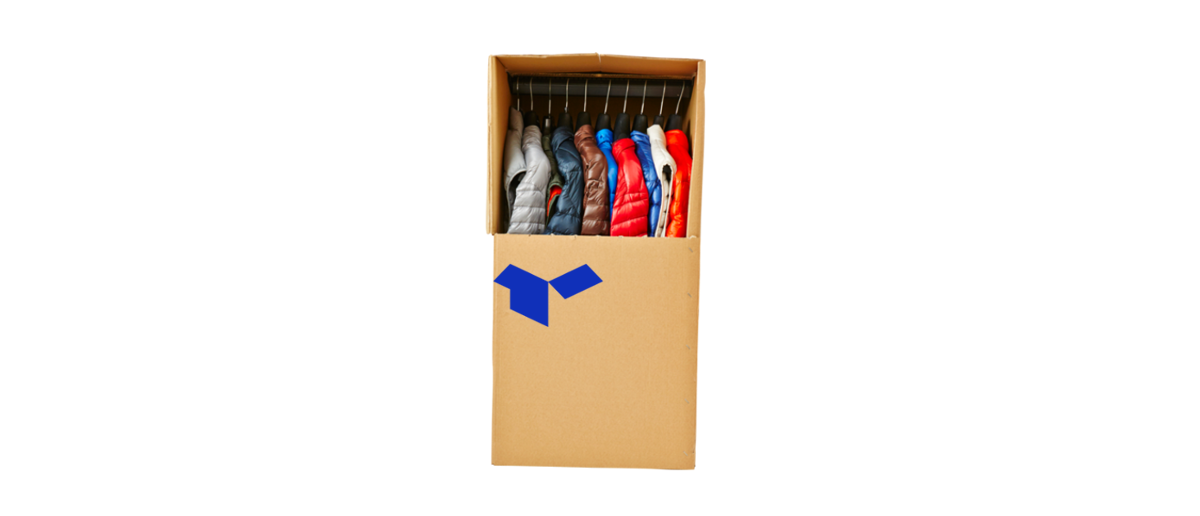
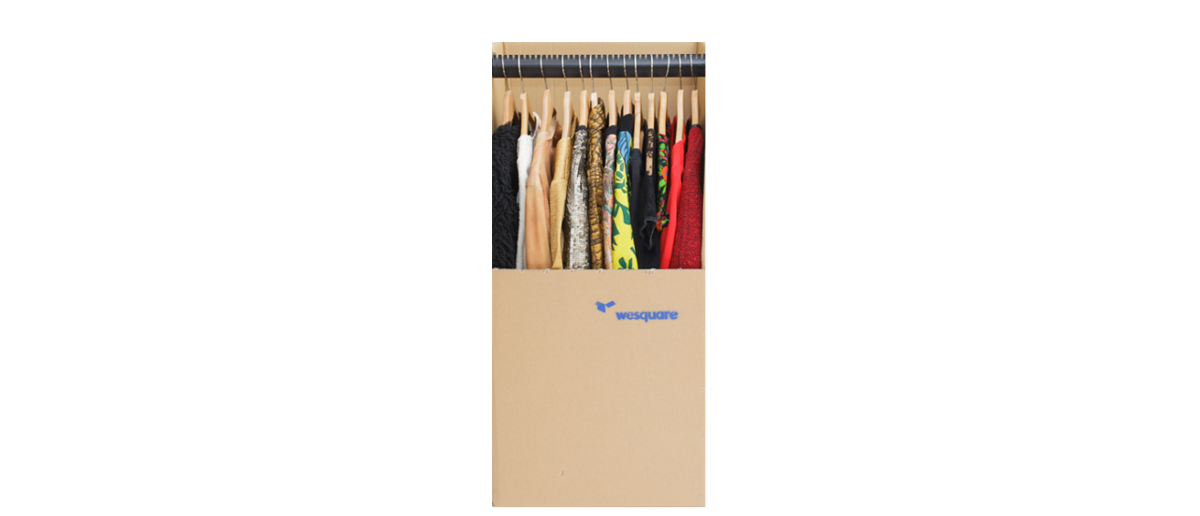
Modif collecte vs. ramassage + photo vic

Changed region(s): [[0.4008, 0.062, 0.5858, 0.9922]]

diff --git a/FAQ.html b/FAQ.html
@@ -71,7 +71,7 @@ style: faq
 								<ol>
 									<li> Vous commandez des Box de rangement (BlueBox, PenderiBox, ArchivBox) par téléphone et nous fixons ensemble un rendez-vous pour les livrer. </li>
 									<li> Nous livrons gratuitement les Box de rangement que vous remplissez.</li>
-									<li> Nous revenons gratuitement dans un délai de 2 semaines ramasser vos Box remplies ainsi que vos éventuels Objets Volumineux </li>
+									<li> Nous revenons gratuitement dans un délai de 2 semaines collecter vos Box remplies ainsi que vos éventuels Objets Volumineux </li>
 									<li> Nous stockons vos Box, scellées et numérotées ainsi que vos éventuels Objet Volumineux Fdans nos entrepôts sécurisés.</li>
 								</ol>
 								Visualisez l'inventaire de vos affaires sur votre <a href="{{ site.baseurl }}/mon_espace.html" target="BLANK">espace utilisateur </a>. Planifiez en ligne ou par téléphone un retour de vos Box dans un délai de 24h.
@@ -89,7 +89,7 @@ style: faq
 						<div id="collapseFour" class="panel-collapse collapse" role="tabpanel" aria-labelledby="headingFour">
 							<div class="panel-body">
 								À la livraison des Box  vides, une feuille d'inventaire vous est remise par notre chauffeur wesquare<sup>&reg;</sup>, afin de faire la liste détaillée de toutes vos affaires. 
-								<br>Au moment du Ramassage de vos Box  remplies, nous prenons une photo (prise de vue de dessus),  récupérons votre feuille d'inventaire et scellons vos Box devant vous. Une fois vos Box stockées, nous mettons en ligne sur votre <a href="{{ site.baseurl }}/mon_espace.html" target="BLANK"> espace utilisateur</a>, votre inventaire ainsi que les photos prises.
+								<br>Au moment du Collecter de vos Box  remplies, nous prenons une photo (prise de vue de dessus),  récupérons votre feuille d'inventaire et scellons vos Box devant vous. Une fois vos Box stockées, nous mettons en ligne sur votre <a href="{{ site.baseurl }}/mon_espace.html" target="BLANK"> espace utilisateur</a>, votre inventaire ainsi que les photos prises.
 								<br>Vous pouvez ensuite gérer vos Box de manière autonome (modifier l'inventaire, demander un retour, etc.)
 							</div>
 						</div>
@@ -136,7 +136,7 @@ style: faq
 					<div id="collapseSeven" class="panel-collapse collapse" role="tabpanel" aria-labelledby="headingSeven">
 						<div class="panel-body">
 							Des questions? Des renseignements? Notre team y répondra avec le plus grand plaisir du lundi au samedi, de 9h00 à 19h00.
-							<br><br>Livraison ? Ramassage ? Retour ? Les chauffeurs de la team wesquare<sup>&reg;</sup> se mettent à votre disposition et s’adaptent à votre agenda, du lundi au samedi, de 7h00 à 23h00.	
+							<br><br>Livraison ? Collecte ? Retour ? Les chauffeurs de la team wesquare<sup>&reg;</sup> se mettent à votre disposition et s’adaptent à votre agenda, du lundi au samedi, de 7h00 à 23h00.	
 						</div>
 					</div>
 				</div>
@@ -303,7 +303,7 @@ style: faq
 <div class="row">
 
 	<div class="col-md-offset-2 col-md-8">
-		<h1>Livraison, Ramassage & Retour</h1>
+		<h1>Livraison, Collecte & Retour</h1>
 
 		<div class="panel-group" id="accordion3" role="tablist" aria-multiselectable="true">
 
@@ -311,7 +311,7 @@ style: faq
 				<div class="panel-heading" role="tab" id="headingSixteen">
 					<h4 class="panel-title text-left">
 						<a class="collapsed" data-toggle="collapse" data-parent="#accordion3" href="#collapseSixteen" aria-expanded="false" aria-controls="collapseSixteen">
-							Comment planifier une Livraison, un Ramassage ou un Retour?
+							Comment planifier une Livraison, une Collecte ou un Retour?
 						</a>
 					</h4>
 				</div>
@@ -320,7 +320,7 @@ style: faq
 						Fixer un rendez-vous n’a jamais été aussi simple qu'avec wesquare<sup>&reg;</sup>.
 						<ol>
 							<li>Pour planifier une livraison de Box vides, faites une simulation de prix grâce à nos curseurs intuitifs et appelez nous au 01 82 09 71 79 pour fixer un rendez-vous à la date et au créneau horaire qui vous conviennent le mieux.</li>
-							<li> Une fois les Box livrées, remplissez-les et planifiez le ramassage de vos affaires (dans un délai maximum de 2 semaines après la livraison de vos Box vides) en vous connectant sur votre <a href="{{ site.baseurl }}/mon_espace.html" target="BLANK">espace utilisateur</a> ou en nous appelant au 01 82 09 71 79 afin de fixer un nouveau rendez-vous, à la date et aux horaires qui vous conviennent le mieux.</li>
+							<li> Une fois les Box livrées, remplissez-les et planifiez la collecte de vos affaires (dans un délai maximum de 2 semaines après la livraison de vos Box vides) en vous connectant sur votre <a href="{{ site.baseurl }}/mon_espace.html" target="BLANK">espace utilisateur</a> ou en nous appelant au 01 82 09 71 79 afin de fixer un nouveau rendez-vous, à la date et aux horaires qui vous conviennent le mieux.</li>
 							<li>Lorsque vous désirez un retour : connectez-vous simplement sur votre <a href="{{ site.baseurl }}/mon_espace.html" target="BLANK">espace utilisateur</a> ou appelez-nous, choisissez les affaires que vous souhaitez récupérer et sélectionnez la date et le créneau horaire qui vous conviennent.</li>
 						</ol>
 					</div>
@@ -331,7 +331,7 @@ style: faq
 				<div class="panel-heading" role="tab" id="headingSeventeen">
 					<h4 class="panel-title text-left">
 						<a class="collapsed" data-toggle="collapse" data-parent="#accordion3" href="#collapseSeventeen" aria-expanded="false" aria-controls="collapseSeventeen">
-							Quels sont les horaires de  Livraison, Ramassage & Retour?
+							Quels sont les horaires de  Livraison, Collecte & Retour?
 						</a>
 					</h4>
 				</div>
@@ -351,7 +351,7 @@ style: faq
 				</div>
 				<div id="collapseEighteen" class="panel-collapse collapse" role="tabpanel" aria-labelledby="headingEighteen">
 					<div class="panel-body">
-						Toute commande (Livraison, Ramassage ou Retour) vous sera livrée 24h après la prise de commande.  
+						Toute commande (Livraison, Collecte ou Retour) vous sera livrée 24h après la prise de commande.  
 					</div>
 				</div>
 			</div>
@@ -403,13 +403,13 @@ style: faq
 			<div class="panel-heading" role="tab" id="headingTwentytwo">
 				<h4 class="panel-title text-left">
 					<a class="collapsed" data-toggle="collapse" data-parent="#accordion3" href="#collapseTwentytwo" aria-expanded="false" aria-controls="collapseTwentytwo">
-						Comment modifier ou annuler une Livraison, un Ramassage ou un Retour?
+						Comment modifier ou annuler une Livraison, une Collecte ou un Retour?
 					</a>
 				</h4>
 			</div>
 			<div id="collapseTwentytwo" class="panel-collapse collapse" role="tabpanel" aria-labelledby="headingTwentytwo">
 				<div class="panel-body">
-					Pour toute modification ou annulation d’une Livraison, d’un Ramassage ou d’un Retour, merci de contacter la team wesquare<sup>&reg;</sup> par email à <a href="mailto:contact@we-square.com" target="BLANK"> contact@we-square.com </a> ou par téléphone au 01 82 09 71 79.
+					Pour toute modification ou annulation d’une Livraison, d’une Collecte ou d’un Retour, merci de contacter la team wesquare<sup>&reg;</sup> par email à <a href="mailto:contact@we-square.com" target="BLANK"> contact@we-square.com </a> ou par téléphone au 01 82 09 71 79.
 					<br>Vous pouvez modifier ou annuler gratuitement jusqu’à 24h avant le passage de votre chauffeur wesquare<sup>&reg;</sup>. Au-delà, il faudra vous acquitter d’une pénalité de 9,90 euros. 
 				</div>
 			</div>
@@ -421,13 +421,13 @@ style: faq
 			<div class="panel-heading" role="tab" id="headingTwentythree">
 				<h4 class="panel-title text-left">
 					<a class="collapsed" data-toggle="collapse" data-parent="#accordion3" href="#collapseTwentythree" aria-expanded="false" aria-controls="collapseTwentythree">
-						Que faire si je suis absent au moment de la Livraison, du Ramassage ou du Retour?
+						Que faire si je suis absent au moment de la Livraison, de la Collecte ou du Retour?
 					</a>
 				</h4>
 			</div>
 			<div id="collapseTwentythree" class="panel-collapse collapse" role="tabpanel" aria-labelledby="headingTwentythree">
 				<div class="panel-body">
-					Si votre chauffeur wesquare<sup>&reg;</sup> ne peut pas trouver votre adresse ou si vous êtes absent à l’adresse et à l’heure indiquée pour la Livraison, le Ramassage ou le Retour, alors il attendra 20 minutes et tentera de vous joindre. En cas d’échec, vous serez facturé la somme de 19,90 euros.
+					Si votre chauffeur wesquare<sup>&reg;</sup> ne peut pas trouver votre adresse ou si vous êtes absent à l’adresse et à l’heure indiquée pour la Livraison, la Collecte ou le Retour, alors il attendra 20 minutes et tentera de vous joindre. En cas d’échec, vous serez facturé la somme de 19,90 euros.
 				</div>
 			</div>
 		</div>
@@ -442,7 +442,7 @@ style: faq
 			</div>
 			<div id="collapseTwentyfour" class="panel-collapse collapse" role="tabpanel" aria-labelledby="headingTwentyfour">
 				<div class="panel-body">
-					Le chauffeur wesquare<sup>&reg;</sup> vous contactera 20 minutes avant chaque Livraison, Ramassage ou Retour pour confirmer avec vous l’adresse, l’horaire ainsi que votre présence.
+					Le chauffeur wesquare<sup>&reg;</sup> vous contactera 20 minutes avant chaque Livraison, Collecte ou Retour pour confirmer avec vous l’adresse, l’horaire ainsi que votre présence.
 				</div>
 			</div>
 		</div>
@@ -619,7 +619,7 @@ style: faq
 						<p>Le service comprend:</p>
 						<ul>
 							<li>la Livraison gratuite des Box vides à l’adresse de votre choix;</li>
-							<li>le Ramassage gratuit des Box pleines à l’adresse de votre choix;</li>
+							<li>la Collecte gratuite des Box pleines à l’adresse de votre choix;</li>
 							<li>l’accès gratuit à votre inventaire en ligne depuis votre espace utilisateur;</li> 
 							<li>une assurance de 250 €/Box ou Objet Volumineux.</li> 
 						</ul>

diff --git a/_site/FAQ.html b/_site/FAQ.html
@@ -276,7 +276,7 @@
 								<ol>
 									<li> Vous commandez des Box de rangement (BlueBox, PenderiBox, ArchivBox) par téléphone et nous fixons ensemble un rendez-vous pour les livrer. </li>
 									<li> Nous livrons gratuitement les Box de rangement que vous remplissez.</li>
-									<li> Nous revenons gratuitement dans un délai de 2 semaines ramasser vos Box remplies ainsi que vos éventuels Objets Volumineux </li>
+									<li> Nous revenons gratuitement dans un délai de 2 semaines collecter vos Box remplies ainsi que vos éventuels Objets Volumineux </li>
 									<li> Nous stockons vos Box, scellées et numérotées ainsi que vos éventuels Objet Volumineux Fdans nos entrepôts sécurisés.</li>
 								</ol>
 								Visualisez l'inventaire de vos affaires sur votre <a href="/mon_espace.html" target="BLANK">espace utilisateur </a>. Planifiez en ligne ou par téléphone un retour de vos Box dans un délai de 24h.
@@ -294,7 +294,7 @@
 						<div id="collapseFour" class="panel-collapse collapse" role="tabpanel" aria-labelledby="headingFour">
 							<div class="panel-body">
 								À la livraison des Box  vides, une feuille d'inventaire vous est remise par notre chauffeur wesquare<sup>&reg;</sup>, afin de faire la liste détaillée de toutes vos affaires. 
-								<br>Au moment du Ramassage de vos Box  remplies, nous prenons une photo (prise de vue de dessus),  récupérons votre feuille d'inventaire et scellons vos Box devant vous. Une fois vos Box stockées, nous mettons en ligne sur votre <a href="/mon_espace.html" target="BLANK"> espace utilisateur</a>, votre inventaire ainsi que les photos prises.
+								<br>Au moment du Collecter de vos Box  remplies, nous prenons une photo (prise de vue de dessus),  récupérons votre feuille d'inventaire et scellons vos Box devant vous. Une fois vos Box stockées, nous mettons en ligne sur votre <a href="/mon_espace.html" target="BLANK"> espace utilisateur</a>, votre inventaire ainsi que les photos prises.
 								<br>Vous pouvez ensuite gérer vos Box de manière autonome (modifier l'inventaire, demander un retour, etc.)
 							</div>
 						</div>
@@ -341,7 +341,7 @@
 					<div id="collapseSeven" class="panel-collapse collapse" role="tabpanel" aria-labelledby="headingSeven">
 						<div class="panel-body">
 							Des questions? Des renseignements? Notre team y répondra avec le plus grand plaisir du lundi au samedi, de 9h00 à 19h00.
-							<br><br>Livraison ? Ramassage ? Retour ? Les chauffeurs de la team wesquare<sup>&reg;</sup> se mettent à votre disposition et s’adaptent à votre agenda, du lundi au samedi, de 7h00 à 23h00.	
+							<br><br>Livraison ? Collecte ? Retour ? Les chauffeurs de la team wesquare<sup>&reg;</sup> se mettent à votre disposition et s’adaptent à votre agenda, du lundi au samedi, de 7h00 à 23h00.	
 						</div>
 					</div>
 				</div>
@@ -508,7 +508,7 @@
 <div class="row">
 
 	<div class="col-md-offset-2 col-md-8">
-		<h1>Livraison, Ramassage & Retour</h1>
+		<h1>Livraison, Collecte & Retour</h1>
 
 		<div class="panel-group" id="accordion3" role="tablist" aria-multiselectable="true">
 
@@ -516,7 +516,7 @@
 				<div class="panel-heading" role="tab" id="headingSixteen">
 					<h4 class="panel-title text-left">
 						<a class="collapsed" data-toggle="collapse" data-parent="#accordion3" href="#collapseSixteen" aria-expanded="false" aria-controls="collapseSixteen">
-							Comment planifier une Livraison, un Ramassage ou un Retour?
+							Comment planifier une Livraison, une Collecte ou un Retour?
 						</a>
 					</h4>
 				</div>
@@ -525,7 +525,7 @@
 						Fixer un rendez-vous n’a jamais été aussi simple qu'avec wesquare<sup>&reg;</sup>.
 						<ol>
 							<li>Pour planifier une livraison de Box vides, faites une simulation de prix grâce à nos curseurs intuitifs et appelez nous au 01 82 09 71 79 pour fixer un rendez-vous à la date et au créneau horaire qui vous conviennent le mieux.</li>
-							<li> Une fois les Box livrées, remplissez-les et planifiez le ramassage de vos affaires (dans un délai maximum de 2 semaines après la livraison de vos Box vides) en vous connectant sur votre <a href="/mon_espace.html" target="BLANK">espace utilisateur</a> ou en nous appelant au 01 82 09 71 79 afin de fixer un nouveau rendez-vous, à la date et aux horaires qui vous conviennent le mieux.</li>
+							<li> Une fois les Box livrées, remplissez-les et planifiez la collecte de vos affaires (dans un délai maximum de 2 semaines après la livraison de vos Box vides) en vous connectant sur votre <a href="/mon_espace.html" target="BLANK">espace utilisateur</a> ou en nous appelant au 01 82 09 71 79 afin de fixer un nouveau rendez-vous, à la date et aux horaires qui vous conviennent le mieux.</li>
 							<li>Lorsque vous désirez un retour : connectez-vous simplement sur votre <a href="/mon_espace.html" target="BLANK">espace utilisateur</a> ou appelez-nous, choisissez les affaires que vous souhaitez récupérer et sélectionnez la date et le créneau horaire qui vous conviennent.</li>
 						</ol>
 					</div>
@@ -536,7 +536,7 @@
 				<div class="panel-heading" role="tab" id="headingSeventeen">
 					<h4 class="panel-title text-left">
 						<a class="collapsed" data-toggle="collapse" data-parent="#accordion3" href="#collapseSeventeen" aria-expanded="false" aria-controls="collapseSeventeen">
-							Quels sont les horaires de  Livraison, Ramassage & Retour?
+							Quels sont les horaires de  Livraison, Collecte & Retour?
 						</a>
 					</h4>
 				</div>
@@ -556,7 +556,7 @@
 				</div>
 				<div id="collapseEighteen" class="panel-collapse collapse" role="tabpanel" aria-labelledby="headingEighteen">
 					<div class="panel-body">
-						Toute commande (Livraison, Ramassage ou Retour) vous sera livrée 24h après la prise de commande.  
+						Toute commande (Livraison, Collecte ou Retour) vous sera livrée 24h après la prise de commande.  
 					</div>
 				</div>
 			</div>
@@ -608,13 +608,13 @@
 			<div class="panel-heading" role="tab" id="headingTwentytwo">
 				<h4 class="panel-title text-left">
 					<a class="collapsed" data-toggle="collapse" data-parent="#accordion3" href="#collapseTwentytwo" aria-expanded="false" aria-controls="collapseTwentytwo">
-						Comment modifier ou annuler une Livraison, un Ramassage ou un Retour?
+						Comment modifier ou annuler une Livraison, une Collecte ou un Retour?
 					</a>
 				</h4>
 			</div>
 			<div id="collapseTwentytwo" class="panel-collapse collapse" role="tabpanel" aria-labelledby="headingTwentytwo">
 				<div class="panel-body">
-					Pour toute modification ou annulation d’une Livraison, d’un Ramassage ou d’un Retour, merci de contacter la team wesquare<sup>&reg;</sup> par email à <a href="mailto:contact@we-square.com" target="BLANK"> contact@we-square.com </a> ou par téléphone au 01 82 09 71 79.
+					Pour toute modification ou annulation d’une Livraison, d’une Collecte ou d’un Retour, merci de contacter la team wesquare<sup>&reg;</sup> par email à <a href="mailto:contact@we-square.com" target="BLANK"> contact@we-square.com </a> ou par téléphone au 01 82 09 71 79.
 					<br>Vous pouvez modifier ou annuler gratuitement jusqu’à 24h avant le passage de votre chauffeur wesquare<sup>&reg;</sup>. Au-delà, il faudra vous acquitter d’une pénalité de 9,90 euros. 
 				</div>
 			</div>
@@ -626,13 +626,13 @@
 			<div class="panel-heading" role="tab" id="headingTwentythree">
 				<h4 class="panel-title text-left">
 					<a class="collapsed" data-toggle="collapse" data-parent="#accordion3" href="#collapseTwentythree" aria-expanded="false" aria-controls="collapseTwentythree">
-						Que faire si je suis absent au moment de la Livraison, du Ramassage ou du Retour?
+						Que faire si je suis absent au moment de la Livraison, de la Collecte ou du Retour?
 					</a>
 				</h4>
 			</div>
 			<div id="collapseTwentythree" class="panel-collapse collapse" role="tabpanel" aria-labelledby="headingTwentythree">
 				<div class="panel-body">
-					Si votre chauffeur wesquare<sup>&reg;</sup> ne peut pas trouver votre adresse ou si vous êtes absent à l’adresse et à l’heure indiquée pour la Livraison, le Ramassage ou le Retour, alors il attendra 20 minutes et tentera de vous joindre. En cas d’échec, vous serez facturé la somme de 19,90 euros.
+					Si votre chauffeur wesquare<sup>&reg;</sup> ne peut pas trouver votre adresse ou si vous êtes absent à l’adresse et à l’heure indiquée pour la Livraison, la Collecte ou le Retour, alors il attendra 20 minutes et tentera de vous joindre. En cas d’échec, vous serez facturé la somme de 19,90 euros.
 				</div>
 			</div>
 		</div>
@@ -647,7 +647,7 @@
 			</div>
 			<div id="collapseTwentyfour" class="panel-collapse collapse" role="tabpanel" aria-labelledby="headingTwentyfour">
 				<div class="panel-body">
-					Le chauffeur wesquare<sup>&reg;</sup> vous contactera 20 minutes avant chaque Livraison, Ramassage ou Retour pour confirmer avec vous l’adresse, l’horaire ainsi que votre présence.
+					Le chauffeur wesquare<sup>&reg;</sup> vous contactera 20 minutes avant chaque Livraison, Collecte ou Retour pour confirmer avec vous l’adresse, l’horaire ainsi que votre présence.
 				</div>
 			</div>
 		</div>
@@ -824,7 +824,7 @@
 						<p>Le service comprend:</p>
 						<ul>
 							<li>la Livraison gratuite des Box vides à l’adresse de votre choix;</li>
-							<li>le Ramassage gratuit des Box pleines à l’adresse de votre choix;</li>
+							<li>la Collecte gratuite des Box pleines à l’adresse de votre choix;</li>
 							<li>l’accès gratuit à votre inventaire en ligne depuis votre espace utilisateur;</li> 
 							<li>une assurance de 250 €/Box ou Objet Volumineux.</li> 
 						</ul>

diff --git a/index.html b/index.html
@@ -72,7 +72,7 @@ style: style
           <img src="images/3.png" width="120" alt="Nous transportons vos affaires, plus besoin de se déplacer" class="img-responsive center-block">
           <img src="images/G3.png" width="50" alt="étape 3" class="img-responsive">
           <p class="step">
-            Nous revenons <strong>gratuitement</strong>, ramasser vos Box.
+            Nous revenons <strong>gratuitement</strong>, collecter vos Box.
           </p>
         </div>
         <div class="col-sm-6 col-md-3">
@@ -294,7 +294,7 @@ style: style
               </div>
               <div class="col-sm-6 col-md-4 text-center">     
                 <a href="Victoria.html">
-                  <img src="images/Penderie_Vic_pic_cpd.png" alt="PenderiBox de Victoria" class="img-responsive center-block">
+                  <img src="images/Penderie_Vic_cpd.png" alt="PenderiBox de Victoria" class="img-responsive center-block">
                   <h5>Victoria, chargée de communication</h5>
                 </a>
               </div>
@@ -767,7 +767,7 @@ style: style
         <div class="col-md-6 text-left">
           <h1>On s'occupe de tout.</h1>
           <p>Livraison gratuite des Box vides.</p>
-          <p>Ramassage gratuit des Box pleines et de vos Objets Volumineux, dans un délai maximum de 2 semaines.</p> 
+          <p>Collecte gratuite des Box pleines et de vos Objets Volumineux, dans un délai maximum de 2 semaines.</p> 
           <p>Récupérez vos affaires dans les 24h pour seulement 8,90 € pour la 1 <sup>ère</sup> Box + 2,50 € par Box/Objet Volumineux supplémentaire.</p>
           <h3> Pour commander : 
             <br>

diff --git a/_site/index.html b/_site/index.html
@@ -276,7 +276,7 @@
           <img src="images/3.png" width="120" alt="Nous transportons vos affaires, plus besoin de se déplacer" class="img-responsive center-block">
           <img src="images/G3.png" width="50" alt="étape 3" class="img-responsive">
           <p class="step">
-            Nous revenons <strong>gratuitement</strong>, ramasser vos Box.
+            Nous revenons <strong>gratuitement</strong>, collecter vos Box.
           </p>
         </div>
         <div class="col-sm-6 col-md-3">
@@ -498,7 +498,7 @@
               </div>
               <div class="col-sm-6 col-md-4 text-center">     
                 <a href="Victoria.html">
-                  <img src="images/Penderie_Vic_pic_cpd.png" alt="PenderiBox de Victoria" class="img-responsive center-block">
+                  <img src="images/Penderie_Vic_cpd.png" alt="PenderiBox de Victoria" class="img-responsive center-block">
                   <h5>Victoria, chargée de communication</h5>
                 </a>
               </div>
@@ -971,7 +971,7 @@
         <div class="col-md-6 text-left">
           <h1>On s'occupe de tout.</h1>
           <p>Livraison gratuite des Box vides.</p>
-          <p>Ramassage gratuit des Box pleines et de vos Objets Volumineux, dans un délai maximum de 2 semaines.</p> 
+          <p>Collecte gratuite des Box pleines et de vos Objets Volumineux, dans un délai maximum de 2 semaines.</p> 
           <p>Récupérez vos affaires dans les 24h pour seulement 8,90 € pour la 1 <sup>ère</sup> Box + 2,50 € par Box/Objet Volumineux supplémentaire.</p>
           <h3> Pour commander : 
             <br>
